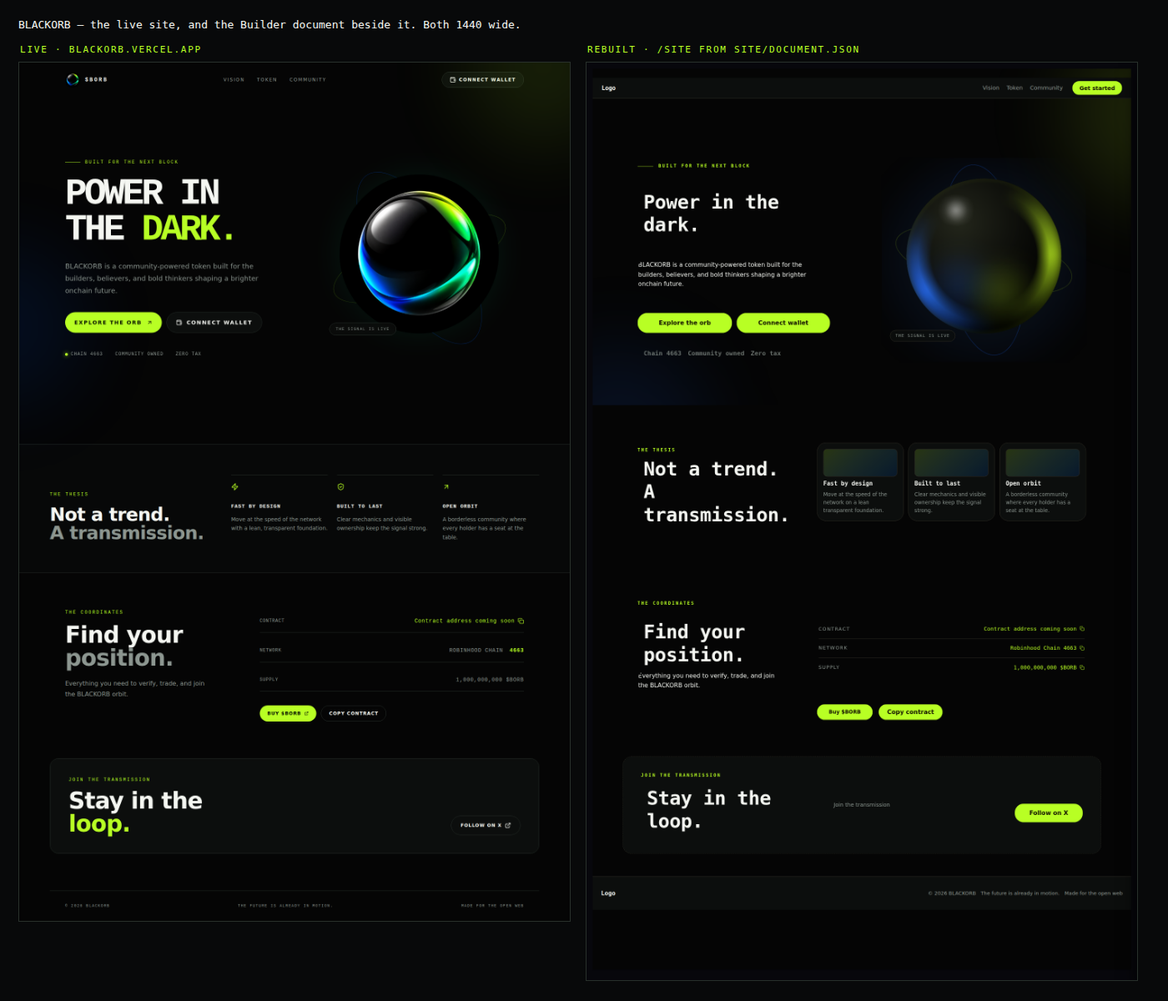
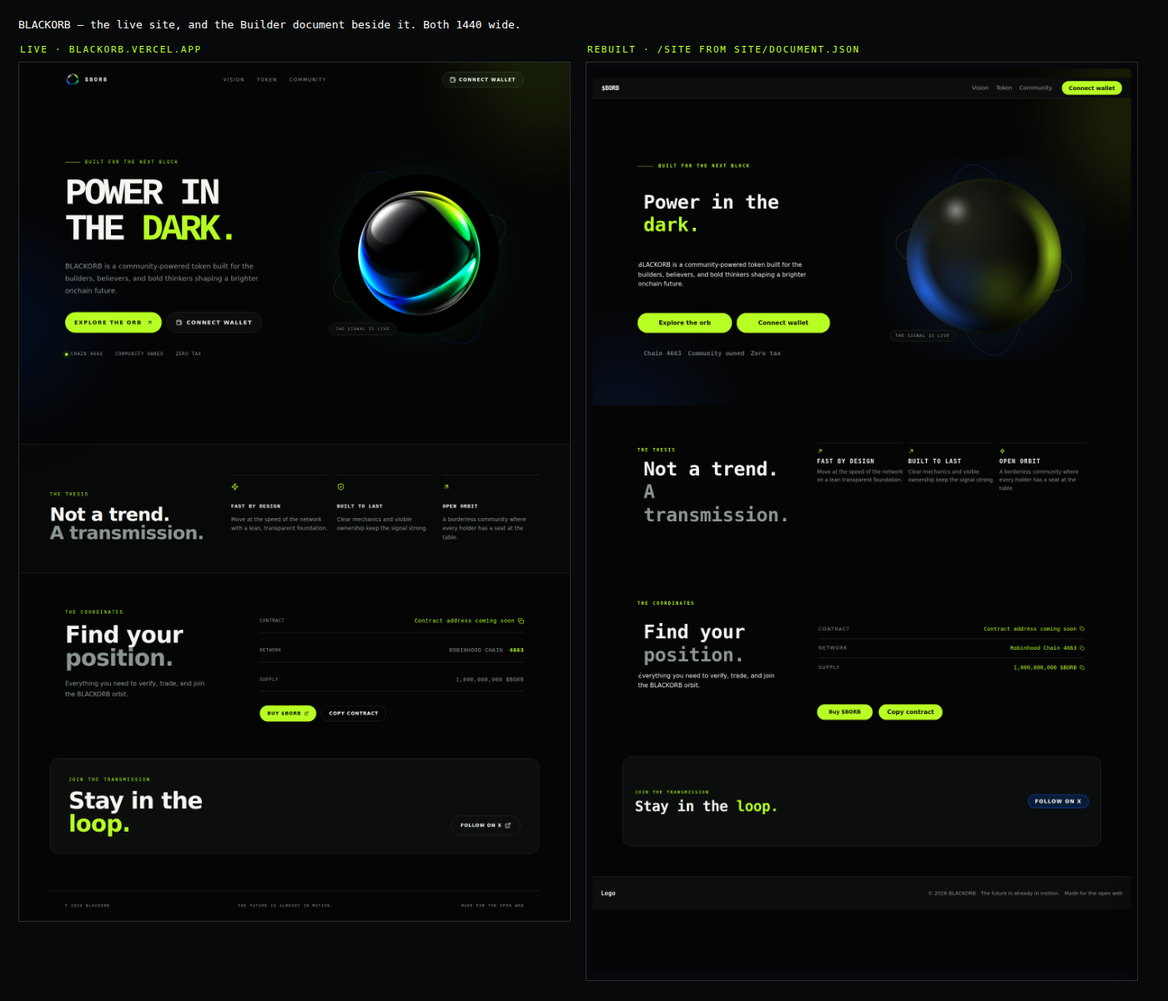
Builder: the four things the rebuild could only fake
A header's wordmark and its button come out of its contents now
(logo: $BORB, button: Connect wallet) rather than being "Logo" and "Get
started" on every site ever built from this. A display line can turn
colour at its last word or its last sentence, which is what a headline
on a dark page nearly always does and could only be had before by
butting two parts together and hoping neither wrapped. A card grid can
be ruled — a hairline across the top, a drawn mark, an uppercase title,
no box — as well as boxed. And the panel a page ends on is a part:
invite-panel, with a label, a turning headline and a button, where a
dashed region printing its own name in the middle used to stand in.

BLACKORB uses all four, so the rebuild is the page rather than an
approximation of it, and docs/shots/blackorb-page-vs-live.png is the two
side by side again.

Claude-Session: https://claude.ai/code/session_01EzYcaVTFPFcZAZ4Yo6tXxg

diff --git a/src/features/studio/catalog.ts b/src/features/studio/catalog.ts
@@ -23,7 +23,7 @@ import {
   Gamepad2, Gauge, Ghost, GitBranch, Globe, GraduationCap, Grid2x2, Hand, Hash, Heading, Heart,
   HelpCircle, Highlighter, History as HistoryIcon, Home, Hourglass, Image as ImageIcon, Images, Inbox, Info, Keyboard,
   Languages, Layers, LayoutGrid, LayoutTemplate, Lightbulb, LineChart, Link2, List, ListOrdered,
-  Lock, LoaderCircle, Magnet, Mail, Map as MapIcon, MapPin, Menu, MessageSquare, Mic, Milestone, Minus, Monitor,
+  Lock, LoaderCircle, Magnet, Mail, Map as MapIcon, MapPin, Megaphone, Menu, MessageSquare, Mic, Milestone, Minus, Monitor,
   Moon, MousePointer2, MousePointerClick, Move, Music, Navigation as NavigationIcon, Network, Newspaper, Orbit,
   Package, Palette, PanelLeft, PanelTop, Paperclip, PenTool, Percent, PieChart, Pin, Podcast,
   Printer, Puzzle, QrCode, Quote, Radar, Radio, RefreshCw, Rocket, RotateCw, Route, Rows3, Rss,
@@ -188,6 +188,7 @@ const RAW: FeatureDef[] = [
   f("hero-scroll-cue", "Scroll hint", "hero", ChevronsDown, "A hint that there's more below.", {}),
   f("value-prop", "One-line pitch", "hero", Target, "One sentence saying what this is and who it's for.", { hint: "Say the promise in one sentence." }),
   f("cta-primary", "Main button", "hero", Rocket, "The single most important button.", { options: [emphasis] }),
+  f("invite-panel", "Invitation panel", "hero", Megaphone, "The panel a page ends on: a label, a headline and one button, in a box.", { tags: ["cta", "banner", "join", "newsletter", "footer call"] }),
   f("social-proof-strip", "Trust strip", "hero", Verified, "Logos or numbers right under the fold.", {}),
 
   /* ---------------------------------------------------------------- content */
@@ -434,6 +435,17 @@ const shape: FeatureOption = { id: "shape", label: "Shape", values: ["rounded", 
 const variant: FeatureOption = { id: "variant", label: "Variant", values: ["solid", "outline", "ghost"] };
 const btnSize: FeatureOption = { id: "size", label: "Size", values: ["medium", "small", "large"] };
 
+/**
+ * Where a display line changes colour: nowhere, at its last word, or at its
+ * last sentence. Two lines that turn on the second is what a headline on a
+ * dark page nearly always does, and it could not be said at all.
+ */
+const turnOption = (def: string): FeatureOption => ({
+  id: "turn",
+  label: "Turns colour",
+  values: [def, ...["none", "last word accent", "last word muted", "second sentence accent", "second sentence muted"].filter((v) => v !== def)],
+});
+
 const yesNo = (id: string, label: string, def: "yes" | "no"): FeatureOption => ({ id, label, values: def === "yes" ? ["yes", "no"] : ["no", "yes"] });
 
 /** Per-part overrides: real size, shape options, and what it contains. */
@@ -542,10 +554,15 @@ const DETAILS: Record<string, Partial<FeatureDef>> = {
   // since it was written; only cta-primary offered them, so the other two
   // could be drawn solid and nothing else. An option a part honours and the
   // catalog does not offer is a control nobody can reach.
+  "invite-panel": {
+    w: 1280, h: 240,
+    options: [shape, turnOption("second sentence accent"), { id: "variant", label: "Button", values: ["outline", "solid"] }],
+    content: { label: "Label, heading, button", placeholder: "label: Join the transmission, heading: Stay in the loop., button: Follow on X" },
+  },
   "search-nav": { w: 420, h: 48, options: [shape, yesNo("button", "Search button", "no")], content: { label: "Searches over", placeholder: "pages, products, articles" } },
   "search-autocomplete": { w: 420, h: 48, options: [shape], content: { label: "Suggests", placeholder: "products, categories, recent searches" } },
   "ai-search": { w: 480, h: 48, options: [shape], content: { label: "Searches over", placeholder: "everything on the site" } },
-  "sticky-header": { w: 1440, h: 64, options: [{ id: "onScroll", label: "On scroll", values: ["shrink", "hide-then-show", "static", "blur"] }, yesNo("button", "Right-hand button", "yes")], content: { label: "Links", placeholder: "Home, Work, About, Contact" } },
+  "sticky-header": { w: 1440, h: 64, options: [{ id: "onScroll", label: "On scroll", values: ["shrink", "hide-then-show", "static", "blur"] }, yesNo("button", "Right-hand button", "yes")], content: { label: "Links, and the wordmark", placeholder: "logo: $BORB, Vision, Token, Community, button: Connect wallet" } },
   "mega-menu": { w: 1440, h: 64, content: { label: "Top-level items", placeholder: "Products, Solutions, Pricing, Docs" } },
   "mobile-nav": { w: 390, h: 56, content: { label: "Links", placeholder: "Home, Work, About" } },
   breadcrumbs: { w: 480, h: 32, content: { label: "Trail", placeholder: "Home, Shop, Shoes" } },
@@ -560,7 +577,7 @@ const DETAILS: Record<string, Partial<FeatureDef>> = {
   "hero-typewriter": { w: 1440, h: 480, content: { label: "Phrases it cycles through", placeholder: "Design faster, Ship sooner, Sleep better" } },
   "hero-particles": { w: 1440, h: 560, content: { label: "Headline, subline", placeholder: "Headline, One supporting line" } },
   "hero-3d": { w: 1440, h: 560, content: { label: "Headline, subline", placeholder: "Headline, One supporting line" } },
-  "value-prop": { w: 880, h: 120, content: { label: "The sentence", placeholder: "One line that says what this is and who it's for" } },
+  "value-prop": { w: 880, h: 120, options: [turnOption("none")], content: { label: "The sentence", placeholder: "One line that says what this is and who it's for" } },
   "cta-primary": { w: 220, h: 56, options: [shape, { id: "variant", label: "Look", values: ["solid", "outline", "ghost"] }, { id: "size", label: "Size", values: ["medium", "small", "large"] }], content: { label: "Label", placeholder: "Get started" } },
   "quick-action": { w: 180, h: 48, options: [shape, variant, btnSize], content: { label: "Label", placeholder: "Buy now" } },
   "follow": { w: 180, h: 48, options: [shape, { id: "variant", label: "Variant", values: ["outline", "solid", "ghost"] }, btnSize], content: { label: "Label", placeholder: "Follow" } },
@@ -590,7 +607,7 @@ const DETAILS: Record<string, Partial<FeatureDef>> = {
   survey: { w: 640, h: 400, content: { label: "Questions", placeholder: "Question one, Question two" } },
   "pricing-table": { w: 1200, h: 440, content: { label: "Tier names", placeholder: "Free, Pro, Team" } },
   "product-grid": { w: 1200, h: 520, options: [{ id: "columns", label: "Columns", values: ["4", "3", "2"] }], content: { label: "Product names", placeholder: "Optional, one per card" } },
-  "card-grid": { w: 1200, h: 460, options: [{ id: "columns", label: "Columns", values: ["3", "2", "4"] }], content: { label: "Card titles", placeholder: "Optional, one per card" } },
+  "card-grid": { w: 1200, h: 460, options: [{ id: "columns", label: "Columns", values: ["3", "2", "4"] }, { id: "card", label: "Card", values: ["boxed", "ruled", "plain"] }], content: { label: "Card titles", placeholder: "Fast by design: Move at the speed of the network" } },
   "bento-grid": { w: 1200, h: 520, options: [{ id: "columns", label: "Columns", values: ["3", "4", "2"] }], content: { label: "Tile titles", placeholder: "Optional, one per tile" } },
   masonry: { w: 1200, h: 520, options: [{ id: "columns", label: "Columns", values: ["3", "2", "4"] }] },
   "blog-index": { w: 1200, h: 460, content: { label: "Article titles", placeholder: "Optional, one per card" } },
@@ -884,7 +901,7 @@ export const SUBGROUPS: Record<string, SubGroup[]> = {
   "hero": [
     { id: "heroes", emoji: "\ud83c\udf05", label: "Heroes", ids: ["hero-split", "hero-video", "hero-gradient", "hero-typewriter", "hero-particles", "hero-3d", "hero-scroll-cue"] },
     { id: "the-pitch", emoji: "\ud83d\udcac", label: "The pitch", ids: ["value-prop"] },
-    { id: "the-button", emoji: "\ud83d\ude80", label: "The button", ids: ["cta-primary"] },
+    { id: "the-button", emoji: "\ud83d\ude80", label: "The button", ids: ["cta-primary", "invite-panel"] },
     { id: "proof", emoji: "\ud83c\udfc5", label: "Proof", ids: ["social-proof-strip"] },
     { id: "persuasion", emoji: "\u2b50", label: "Persuasion", ids: ["testimonials", "countdown", "trust-badges", "logo-cloud"] },
   ],

diff --git a/src/features/studio/parts/Header.tsx b/src/features/studio/parts/Header.tsx
@@ -6,11 +6,24 @@
 import * as React from "react";
 import { Btn, Fill } from "./primitives";
 import { sample, rng, hash } from "./sample";
-import { cardStyle, items, type Theme } from "./theme";
+import { cardStyle, items, titled, type Theme } from "./theme";
 import { opt, type PartProps } from "./types";
 
 export function Header({ id, content, options, theme: t, mode, link, onNavigate, emit, w }: PartProps) {
-  const links = items(content, id === "mega-menu" ? ["Products", "Solutions", "Pricing", "Docs"] : ["Home", "Work", "About", "Contact"]);
+  /*
+   * The bar's own two words, taken out of its contents.
+   *
+   * A header is a wordmark, some links and a button, and only the links
+   * could be typed: the other two were "Logo" and "Get started" on every
+   * site ever built from this. An item written `logo: $BORB` or
+   * `button: Connect wallet` is that thing; everything else is a link, so
+   * a header typed the plain way still behaves exactly as it did.
+   */
+  const typed = items(content, id === "mega-menu" ? ["Products", "Solutions", "Pricing", "Docs"] : ["Home", "Work", "About", "Contact"]).map(titled);
+  const keyed = (key: string) => typed.find((x) => x.body && x.title.toLowerCase() === key)?.body ?? null;
+  const wordmark = keyed("logo") ?? keyed("wordmark") ?? "Logo";
+  const buttonLabel = keyed("button") ?? keyed("cta") ?? "Get started";
+  const links = typed.filter((x) => !(x.body && ["logo", "wordmark", "button", "cta"].includes(x.title.toLowerCase()))).map((x) => (x.body ? `${x.title}: ${x.body}` : x.title));
   const compact = id === "mobile-nav" || w < 640;
   const withButton = opt(options, "button", "yes") === "yes" && id !== "home-anchor" && id !== "mobile-nav";
   const [openMenu, setOpenMenu] = React.useState<number | null>(null);
@@ -20,20 +33,20 @@ export function Header({ id, content, options, theme: t, mode, link, onNavigate,
     setSheet(false);
     onNavigate?.({ kind: "page", target: label });
   };
-  const button = () => (link ? onNavigate?.(link) : emit?.({ type: "toast", text: "Get started" }));
+  const button = () => (link ? onNavigate?.(link) : emit?.({ type: "toast", text: buttonLabel }));
   const linkStyle: React.CSSProperties = { background: "transparent", border: "none", cursor: "pointer", color: t.muted, font: "inherit", fontSize: t.fontPx * 0.95, padding: `${t.fontPx * 0.3}px ${t.fontPx * 0.4}px`, borderRadius: Math.min(t.radius, 8) };
 
   if (compact) {
     return (
       <Fill t={t} data-part={id} overflow="visible" style={{ ...cardStyle(t), borderRadius: 0, borderLeft: "none", borderRight: "none", borderTop: "none", display: "flex", alignItems: "center", justifyContent: "space-between", padding: `0 ${t.fontPx}px` }}>
-        <span style={{ fontWeight: 800, fontFamily: t.headingFamily }}>Logo</span>
+        <span style={{ fontWeight: 800, fontFamily: t.headingFamily }}>{wordmark}</span>
         <button type="button" aria-label="Menu" aria-expanded={sheet} onClick={() => setSheet(!sheet)} style={{ ...linkStyle, color: t.text, display: "flex", flexDirection: "column", gap: 4 }}>
           {[0, 1, 2].map((i) => <span key={i} style={{ display: "block", width: 20, height: 2, background: "currentColor", borderRadius: 2 }} />)}
         </button>
         {sheet && mode === "live" ? (
           <nav aria-label="Menu" style={{ position: "absolute", left: 0, right: 0, top: "100%", zIndex: 20, background: t.surface, borderBottom: `1px solid ${t.line}`, padding: t.fontPx * 0.5, display: "flex", flexDirection: "column" }}>
             {links.map((l) => <button key={l} type="button" onClick={() => go(l)} style={{ ...linkStyle, color: t.text, textAlign: "left", padding: `${t.fontPx * 0.6}px ${t.fontPx * 0.6}px` }}>{l}</button>)}
-            {withButton ? <div style={{ padding: t.fontPx * 0.6 }}><Btn t={t} label="Get started" onClick={button} style={{ width: "100%" }} /></div> : null}
+            {withButton ? <div style={{ padding: t.fontPx * 0.6 }}><Btn t={t} label={buttonLabel} onClick={button} style={{ width: "100%" }} /></div> : null}
           </nav>
         ) : null}
       </Fill>
@@ -43,7 +56,7 @@ export function Header({ id, content, options, theme: t, mode, link, onNavigate,
   return (
     <Fill t={t} data-part={id} overflow="visible" style={{ ...cardStyle(t), borderRadius: 0, borderLeft: "none", borderRight: "none", borderTop: "none", display: "flex", alignItems: "center", gap: t.fontPx * 1.2, padding: `0 ${t.fontPx * 1.5}px` }}>
       <button type="button" onClick={() => go("Home")} style={{ ...linkStyle, color: t.text, fontWeight: 800, fontFamily: t.headingFamily, letterSpacing: -0.3, fontSize: t.fontPx, padding: 0 }}>
-        Logo
+        {wordmark}
       </button>
       <span style={{ flex: 1 }} />
       {id === "home-anchor" ? (
@@ -66,7 +79,7 @@ export function Header({ id, content, options, theme: t, mode, link, onNavigate,
           ))}
         </nav>
       )}
-      {withButton ? <Btn t={t} label="Get started" onClick={button} /> : null}
+      {withButton ? <Btn t={t} label={buttonLabel} onClick={button} /> : null}
     </Fill>
   );
 }

diff --git a/src/features/studio/parts/Cta.tsx b/src/features/studio/parts/Cta.tsx
@@ -3,8 +3,9 @@
  * Buttons that do one thing: go where their link points, or say they did.
  */
 import * as React from "react";
-import { Fill } from "./primitives";
-import { items, radiusFor } from "./theme";
+import { Btn, Fill } from "./primitives";
+import { splitTurn } from "./Hero";
+import { cardStyle, items, radiusFor, titled } from "./theme";
 import { opt, type PartProps } from "./types";
 
 export function Cta({ id, content, options, theme: t, mode, link, onNavigate, emit }: PartProps) {
@@ -52,6 +53,70 @@ export function Cta({ id, content, options, theme: t, mode, link, onNavigate, em
       >
         {text}
       </button>
+    </Fill>
+  );
+}
+
+/**
+ * The invitation: the panel a page ends on.
+ *
+ * A bordered box a shade off the page, holding a small label, a headline
+ * that turns colour on its last line, and one button out to the right. It
+ * was being drawn with a region — a dashed box with its name printed in the
+ * middle — because there was no part for it, and a region is a note to the
+ * builder rather than a thing on the page.
+ *
+ * Its three parts are typed as keyed items ("label: Join the transmission,
+ * heading: Stay in the loop., button: Follow on X"), and positionally when
+ * they are not keyed, so it can be filled in either way.
+ */
+export function InvitePanel({ id, content, options, theme: t, mode, link, onNavigate, emit }: PartProps) {
+  const typed = items(content, ["Join the transmission", "Stay in the loop.", "Follow on X"]).map(titled);
+  const keyed = (key: string) => typed.find((x) => x.body && x.title.toLowerCase() === key)?.body ?? null;
+  const loose = typed.filter((x) => !x.body).map((x) => x.title);
+  const label = keyed("label") ?? keyed("eyebrow") ?? loose[0] ?? "";
+  const heading = keyed("heading") ?? keyed("headline") ?? loose[1] ?? "Stay in the loop.";
+  const button = keyed("button") ?? keyed("cta") ?? loose[2] ?? "Follow on X";
+  // The same turn the headline part uses, so "last word" means the same
+  // thing in both and a one-sentence heading can still turn at its end.
+  const turn = opt(options, "turn", "last word accent");
+  const split = splitTurn(heading, turn);
+  const [done, setDone] = React.useState(false);
+
+  return (
+    <Fill
+      t={t}
+      data-part={id}
+      style={{
+        ...cardStyle(t),
+        display: "flex", alignItems: "center", justifyContent: "space-between", gap: t.fontPx * 2,
+        padding: `${t.fontPx * 1.8}px ${t.fontPx * 2}px`,
+        borderRadius: radiusFor(opt(options, "shape", "rounded"), t) || Math.min(t.radius * 2, 28),
+      }}
+    >
+      <div style={{ minWidth: 0 }}>
+        {label ? (
+          <p style={{ margin: 0, fontFamily: "ui-monospace, SFMono-Regular, Menlo, monospace", fontSize: Math.max(9, t.fontPx * 0.72), letterSpacing: "0.22em", textTransform: "uppercase", color: t.accent }}>
+            {label}
+          </p>
+        ) : null}
+        <p style={{ margin: `${t.fontPx * 0.5}px 0 0`, fontFamily: t.headingFamily, fontWeight: 700, fontSize: t.fontPx * 2.4, lineHeight: 1.06, letterSpacing: -0.5 }}>
+          {split.head}
+          {split.tail ? <span style={{ color: turn.endsWith("muted") ? t.muted : t.accent }}>{split.tail}</span> : null}
+        </p>
+      </div>
+      <Btn
+        t={t}
+        primary={opt(options, "variant", "outline") === "solid"}
+        shape="pill"
+        label={done ? "Done \u2713" : button}
+        onClick={() => {
+          if (link) { onNavigate?.(link); return; }
+          if (mode === "live") { setDone(true); window.setTimeout(() => setDone(false), 1200); }
+          emit?.({ type: "toast", text: button });
+        }}
+        style={{ flex: "none", fontSize: t.fontPx * 0.85, textTransform: "uppercase", letterSpacing: "0.12em" }}
+      />
     </Fill>
   );
 }

diff --git a/src/features/studio/parts/Layout.tsx b/src/features/studio/parts/Layout.tsx
@@ -39,6 +39,16 @@ export function Grid({ id, content, options, theme: t, mode, onNavigate, w }: Pa
   const titles = items(content, Array.from({ length: n * 2 }, (_, i) => `Card ${i + 1}`)).map(titled);
   const bento = id === "bento-grid";
   const masonry = id === "masonry";
+  /*
+   * What a card is. "boxed" is the card everyone knows: a filled box with a
+   * picture at the top. "ruled" is the other kind, which this could not
+   * draw at all — a hairline across the top, a small accent mark under it,
+   * a title and two lines, and no box — and which is what a row of three
+   * arguments looks like on almost every dark site. "plain" is neither.
+   */
+  const look = opt(options, "card", "boxed");
+  const ruled = look === "ruled";
+  const bare = look === "plain";
   const r = rng(hash(id + content));
   return (
     <Fill
@@ -55,18 +65,40 @@ export function Grid({ id, content, options, theme: t, mode, onNavigate, w }: Pa
           type="button"
           onClick={() => (mode === "live" ? onNavigate?.({ kind: "page", target: card.title }) : undefined)}
           style={{
-            ...cardStyle(t), padding: t.fontPx, textAlign: "left", cursor: mode === "live" ? "pointer" : "default",
+            ...(ruled || bare ? { background: "transparent", border: "none", borderTop: ruled ? `1px solid ${t.line}` : "none", borderRadius: 0 } : cardStyle(t)),
+            padding: ruled || bare ? `${t.fontPx * 0.9}px 0 0` : t.fontPx,
+            textAlign: "left", cursor: mode === "live" ? "pointer" : "default",
             color: t.text, font: "inherit", display: "flex", flexDirection: "column", gap: 6, minHeight: 0, overflow: "hidden",
             gridColumn: bento && i === 0 ? "span 2" : undefined,
             gridRow: masonry ? `span ${1 + Math.round(r())}` : undefined,
           }}
         >
-          <Placeholder t={t} />
-          <span style={{ fontWeight: 600, fontFamily: t.headingFamily, fontSize: t.fontPx * 0.98 }}>{card.title}</span>
+          {ruled ? <Mark t={t} seed={card.title} /> : bare ? null : <Placeholder t={t} />}
+          <span style={{ fontWeight: 600, fontFamily: t.headingFamily, fontSize: t.fontPx * 0.98, textTransform: ruled ? "uppercase" : undefined, letterSpacing: ruled ? "0.1em" : undefined }}>{card.title}</span>
           <span style={{ color: t.muted, fontSize: t.fontPx * 0.85 }}>{card.body ?? sample.sentence(rng(hash(card.title)), 6)}</span>
         </button>
       ))}
     </Fill>
+  );
+}
+
+/**
+ * The mark over a ruled card: a bolt, a shield or an arrow, picked from the
+ * card's own title so the three in a row are three different marks and the
+ * same card keeps the same one. Drawn rather than imported, because the
+ * parts folder ships without an icon set.
+ */
+function Mark({ t, seed }: { t: Theme; seed: string }) {
+  const which = hash(seed) % 3;
+  const d = which === 0
+    ? "M8.5 1.5 3 9h4l-.5 5.5L13 7H9l-.5-5.5Z"
+    : which === 1
+      ? "M8 1.5 2.5 4v5c0 3 2.4 5 5.5 5.5 3.1-.5 5.5-2.5 5.5-5.5V4L8 1.5Z"
+      : "M4 12 12 4M6 4h6v6";
+  return (
+    <svg width={16} height={16} viewBox="0 0 16 16" fill="none" stroke={t.accent} strokeWidth={1.5} strokeLinecap="round" strokeLinejoin="round" aria-hidden>
+      <path d={d} />
+    </svg>
   );
 }
 

diff --git a/src/features/studio/parts/Hero.tsx b/src/features/studio/parts/Hero.tsx
@@ -5,7 +5,7 @@
 import * as React from "react";
 import { Btn, Fill, Placeholder, useTicker } from "./primitives";
 import { items, type Theme } from "./theme";
-import type { PartProps } from "./types";
+import { opt, type PartProps } from "./types";
 
 export function Hero({ id, content, theme: t, mode, link, onNavigate, emit, w }: PartProps) {
   const typing = id === "hero-typewriter";
@@ -61,15 +61,42 @@ function Caret({ t, mode }: { t: Theme; mode: PartProps["mode"] }) {
   return <span style={{ color: t.accent, opacity: on ? 1 : 0.15 }}>|</span>;
 }
 
-/** The one sentence a site is about. */
-export function ValueProp({ id, content, theme: t }: PartProps) {
+/**
+ * The one sentence a site is about — and, when it is asked for, the turn at
+ * the end of it.
+ *
+ * A headline of two sentences that changes colour on the second ("Not a
+ * trend. **A transmission.**"), or one whose last word carries the accent
+ * ("Power in the **dark.**"), is the commonest thing a display line does,
+ * and it could not be said here at all: the part drew one colour and the
+ * only way to get the turn was two parts butted together, which wraps
+ * wrongly the moment anything changes width.
+ */
+export function ValueProp({ id, content, options, theme: t }: PartProps) {
+  const line = items(content, ["One sentence that says what this is and who it's for."])[0]!;
+  const turn = opt(options, "turn", "none");
+  const parts = splitTurn(line, turn);
+  const tone = turn === "last word muted" || turn === "second sentence muted" ? t.muted : t.accent;
   return (
     <Fill t={t} data-part={id} style={{ display: "flex", alignItems: "center", justifyContent: t.textAlign === "center" ? "center" : "flex-start", padding: t.fontPx * 0.5 }}>
       <p style={{ margin: 0, fontFamily: t.headingFamily, fontWeight: 700, fontSize: t.fontPx * 1.6, lineHeight: 1.2, maxWidth: t.measurePx, textAlign: t.textAlign === "justify" ? "left" : t.textAlign }}>
-        {items(content, ["One sentence that says what this is and who it's for."])[0]}
+        {parts.head}
+        {parts.tail ? <span style={{ color: tone }}>{parts.tail}</span> : null}
       </p>
     </Fill>
   );
+}
+
+/** Where the line turns: nowhere, at the last word, or at the last sentence. */
+export function splitTurn(line: string, turn: string): { head: string; tail: string | null } {
+  if (turn === "none" || !line.trim()) return { head: line, tail: null };
+  if (turn.startsWith("last word")) {
+    const at = line.trimEnd().lastIndexOf(" ");
+    return at < 0 ? { head: "", tail: line } : { head: line.slice(0, at + 1), tail: line.slice(at + 1) };
+  }
+  // The last sentence: everything after the full stop before it.
+  const at = line.trimEnd().replace(/[.!?]\s*$/, "").lastIndexOf(".");
+  return at < 0 ? { head: "", tail: line } : { head: line.slice(0, at + 1), tail: line.slice(at + 1) };
 }
 
 /** Logos, numbers, badges — the strip under the fold. */

diff --git a/src/features/studio/parts/index.ts b/src/features/studio/parts/index.ts
@@ -17,7 +17,7 @@ import { A11y, Auth, BrandKit, CookieConsent, ErrorScreen, Languages, PrintLayou
 import { BlurPrivacy, Console, HotkeyFirst, MultiColumnFeed, Presets, SplitPanes, StatusBar, VirtualList } from "./Power";
 import { CommandPalette, ContextMenus, CopyButton, DragDrop, EasterEgg, Gamification, Graduation, Haptics, HoverCard, MagneticButton, Onboarding, OptimisticUi, SettingsPanel, Skeletons, SoundCues, Toasts, Tooltips, UndoRedo, WorkflowBuilder } from "./Interact";
 import { MotionPart } from "./Motion";
-import { Cta } from "./Cta";
+import { Cta, InvitePanel } from "./Cta";
 import { Header } from "./Header";
 import { Hero, ProofStrip, ValueProp } from "./Hero";
 import { Breadcrumbs, Footer, Grid, Note, Outline, Overlay, Pagination, Sections, Split } from "./Layout";
@@ -51,6 +51,7 @@ export const DEFS: PartDef[] = [
   { component: Hero, ids: ["hero-split", "hero-video", "hero-gradient", "hero-typewriter", "hero-particles", "hero-3d", "hero-scroll-cue"], tier: "A", linkable: true },
   { component: ValueProp, ids: ["value-prop", "gimmick"], tier: "A" },
   { component: Cta, ids: ["cta-primary", "quick-action", "follow"], tier: "A", linkable: true },
+  { component: InvitePanel, ids: ["invite-panel"], tier: "A", linkable: true },
   { component: ProofStrip, ids: ["social-proof-strip", "logo-cloud", "trust-badges"], tier: "A" },
 
   /* --------------------------------------------------------------- text */

diff --git a/AGENTS.md b/AGENTS.md
@@ -223,6 +223,19 @@ site scaled down; `p` opens it full size at `/builder/preview/<page path>`,
 - *A new kind of mark on the board*: add a `ShapeKind` in `store.ts`, draw it
   in `Canvas.tsx`'s `ShapeView`, and describe it in `spec.ts`.
 
+**A part draws what the page needs, or it is not the part.** Four things the
+BLACKORB rebuild could only fake, each fixed where it lived rather than
+worked around on the board: a header's wordmark and its button are read out
+of its contents (`logo: $BORB`, `button: Connect wallet`) instead of being
+"Logo" and "Get started" on every site ever built from this; a display line
+can turn colour at its last word or its last sentence (`turn`, `splitTurn`),
+which is what a headline on a dark page nearly always does and could only be
+had before by butting two parts together; a card grid can be `ruled` — a
+hairline, a drawn mark, an uppercase title, no box — as well as boxed; and
+the panel a page ends on is `invite-panel`, a real part with a label, a
+turning headline and a button, where a dashed region with its name printed
+in the middle used to stand in for it.
+
 **The orbs, and what they are for.** `orb-css`, `orb-webgl` and `orb-image`
 are one object drawn three ways — layered gradients, a three.js sphere, a
 picture — with the same four sliders on each (size, tilt, colour, glow) and
